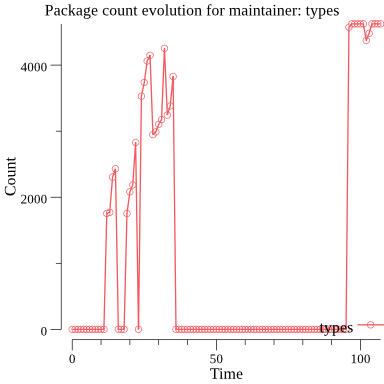
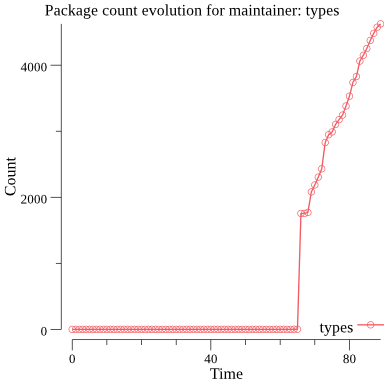
plotter: now retrieves data sorted for maintainer package count evolution

diff --git a/cmd/plotter/main/main.go b/cmd/plotter/main/main.go
@@ -55,9 +55,18 @@ func main() {
 func generatePointsFromMaintainerCounts(counts evolution.MaintainerCount) plotter.XYs {
 	pts := make([]struct{ X, Y float64 }, 0)
 	x := 0
-	for _, innerMap := range counts.Counts {
-		for _, count := range innerMap {
-			pts = append(pts, struct{ X, Y float64 }{X: float64(x), Y: float64(count)})
+	for year := 2010; year < 2019; year++ {
+		startMonth := 1
+		endMonth := 12
+		if year == 2010 {
+			startMonth = 11
+		}
+		if year == 2018 {
+			endMonth = 4
+		}
+		for month := startMonth; month <= endMonth; month++ {
+			y := counts.Counts[year][month]
+			pts = append(pts, struct{ X, Y float64 }{X: float64(x), Y: float64(y)})
 			x++
 		}
 	}
